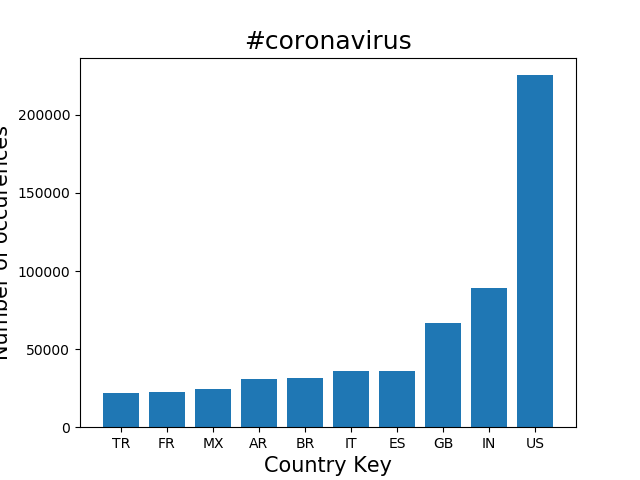
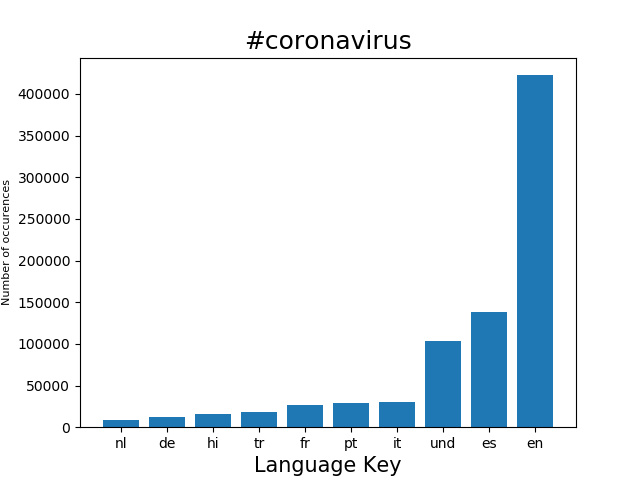
latest

diff --git a/src/visualize.py b/src/visualize.py
@@ -43,7 +43,7 @@ keys = keys[::-1]
 values = values[::-1]
 plt.bar(range(len(keys)), values)
 plt.xticks(range(len(keys)), keys)
-plt.xlabel("Country Key", size = 15)
-plt.ylabel("Number of occurences", size = 15)
+plt.xlabel("Language Key", size = 15)
+plt.ylabel("Number of occurences", size = 8)
 plt.title("#coronavirus", size = 18)
 plt.savefig("coronvirus_lang.png")
